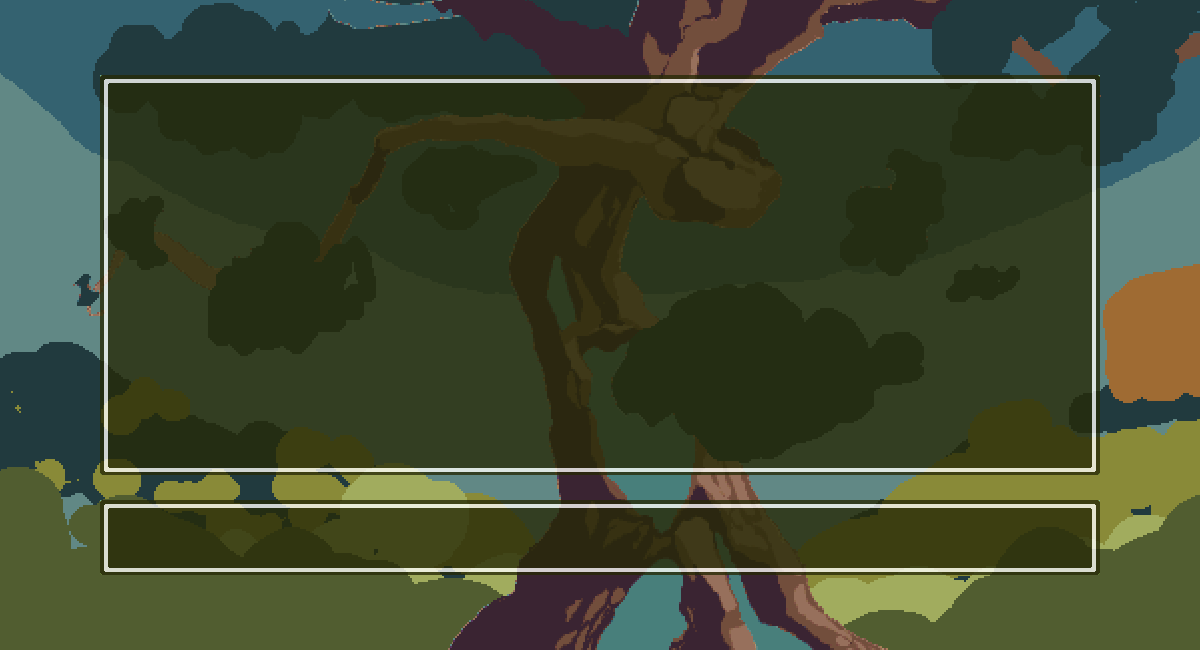
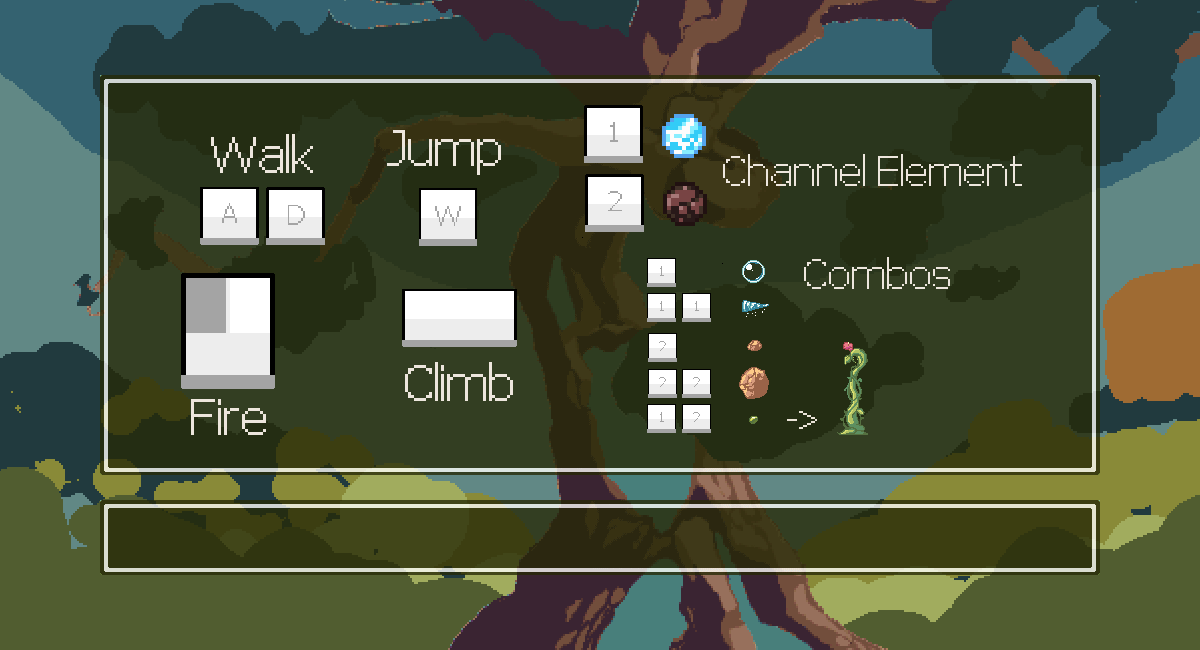
new instruction scene

diff --git a/Nez.Samples/Scenes/Intro/InstructionScene.cs b/Nez.Samples/Scenes/Intro/InstructionScene.cs
@@ -53,40 +53,41 @@ namespace Nez.Samples.Scenes.Intro
             Label introLabel = new Label("");
             Label elementListLabel = new Label("");
             var titleText = "Hello there! Ambitious Mage " + LoginScene._playerName;
-            var introText =
-                "Welcome to the world of Weave!\n" +
-                "The battle arena is starting soon,\n" +
-                "so you should get ready.\n" +
-                "Here's a quick recap of what is allowed \n" +
-                "in the Weave Battle Arena:\n" +
-                "\n"+
-                "[A]/[D] -- Move Left / Right\n" +
-                "[W] -- Jump\n" +
-                "[Space] -- Climb\n" +
-                "\n" +
-                "I hope you are not too nervous to forget \n" +
-                "how to cast spells!\n" +
-                "\n" +
-                "[Elemental Keys] -- Charge elements\n" +
-                "[Left Click] -- Aim and cast spell after \n" +
-                "elements are charged\n"+
-                "\n";
-
-            var elementList =
-                "Only Water (bind to Key [1]) \n" +
-                "and Earth (bind to Key [2]) elemental spells \n" +
-                "are allowed for the safety of all battlers.\n" +
-                "\n" +
-                "Here's a quick list of all elemental combo:\n" +
-                "\n" +
-                "[Water] -- Shield\n" +
-                "[Water] + [Water] -- Shoot Water Jet\n" +
-                "[Earth] -- Throw Bouncing Pebble\n" +
-                "[Earth] + [Earth] -- Throw Bouncing Boulders\n" +
-                "[Water] + [Earth] -- Grow A Vine\n" +
-                "\n" +
-                "Of you are ready, click the button below";
-            
+            // var introText =
+            //     "Welcome to the world of Weave!\n" +
+            //     "The battle arena is starting soon,\n" +
+            //     "so you should get ready.\n" +
+            //     "Here's a quick recap of what is allowed \n" +
+            //     "in the Weave Battle Arena:\n" +
+            //     "\n"+
+            //     "[A]/[D] -- Move Left / Right\n" +
+            //     "[W] -- Jump\n" +
+            //     "[Space] -- Climb\n" +
+            //     "\n" +
+            //     "I hope you are not too nervous to forget \n" +
+            //     "how to cast spells!\n" +
+            //     "\n" +
+            //     "[Elemental Keys] -- Charge elements\n" +
+            //     "[Left Click] -- Aim and cast spell after \n" +
+            //     "elements are charged\n"+
+            //     "\n";
+            //
+            // var elementList =
+            //     "Only Water (bind to Key [1]) \n" +
+            //     "and Earth (bind to Key [2]) elemental spells \n" +
+            //     "are allowed for the safety of all battlers.\n" +
+            //     "\n" +
+            //     "Here's a quick list of all elemental combo:\n" +
+            //     "\n" +
+            //     "[Water] -- Shield\n" +
+            //     "[Water] + [Water] -- Shoot Water Jet\n" +
+            //     "[Earth] -- Throw Bouncing Pebble\n" +
+            //     "[Earth] + [Earth] -- Throw Bouncing Boulders\n" +
+            //     "[Water] + [Earth] -- Grow A Vine\n" +
+            //     "\n" +
+            //     "Of you are ready, click the button below";
+            var introText = "";
+            var elementList = "";
             Canvas.Stage.AddElement(titleLabel);
             Canvas.Stage.AddElement(introLabel);
             Canvas.Stage.AddElement(elementListLabel);
